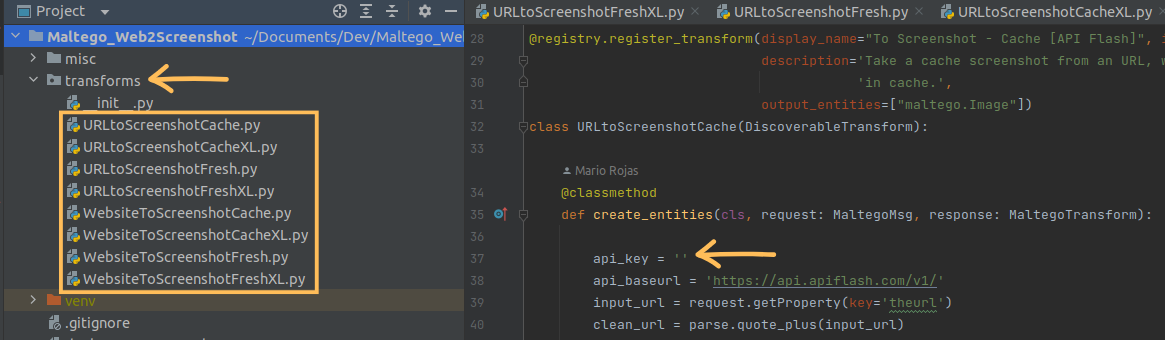
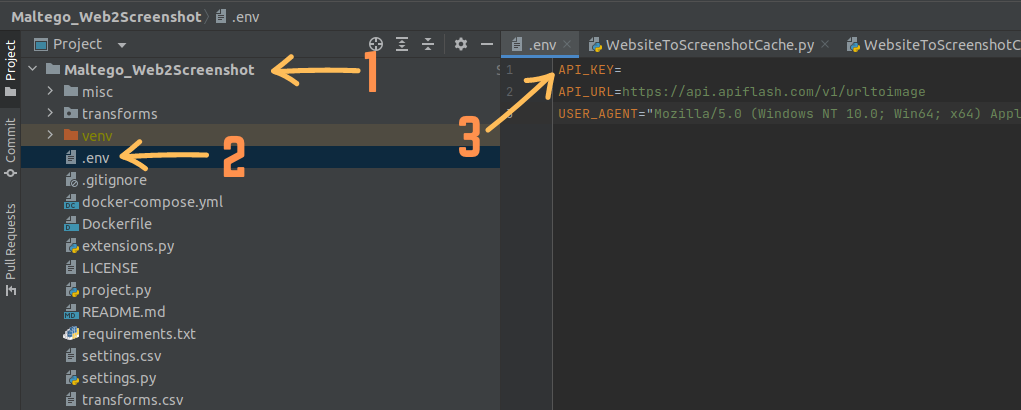
Updated README

diff --git a/README.md b/README.md
@@ -77,8 +77,8 @@ Go to the Transforms Tab and follow the below steps for each Transform
 
 ![Configurations.png](misc/Configurations.png)
 
-Finally, you will need to manually add your API Key to the Transforms. Simply locate the Transform under the transforms
-folder, open the file and add your key.
+Finally, you will need to add your API Key for the Transforms. Simply locate the .env file in the root directory (Enable 
+show Hidden files if using your OS explorer) and add your key next to the API_KEY without spaces.
 
 ![api_keys.png](misc/api_keys.png)
 
